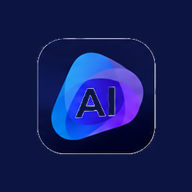
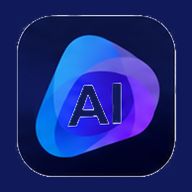
fix grafica e animazioni

diff --git a/relaition-mvp/css/components.css b/relaition-mvp/css/components.css
@@ -31,7 +31,7 @@
 .tab.active{color:var(--ac);border-bottom-color:var(--ac)}
 
 /* ─── MODAL ─── */
-.modal-overlay{position:fixed;inset:0;background:rgba(15,23,42,.5);backdrop-filter:blur(4px);z-index:200;display:none;place-items:center}
+.modal-overlay{position:fixed;inset:0;background:rgba(15,23,42,.58);z-index:200;display:none;place-items:center}
 .modal-overlay.show{display:grid}
 .modal{background:var(--card);border-radius:var(--rxl);box-shadow:var(--sh-xl);width:90%;max-width:680px;max-height:85vh;overflow-y:auto;padding:28px}
 .modal-lg{max-width:820px}
@@ -58,11 +58,13 @@
 
 /* ═══ VISUAL POLISH v8 ═══ */
 @keyframes pageIn{from{opacity:0;transform:translateY(4px)}to{opacity:1;transform:none}}
-.page.active{animation:pageIn .22s cubic-bezier(.4,0,.2,1)}
-@keyframes gradShift{0%,100%{background-position:0% 50%}50%{background-position:100% 50%}}
-.mkt-hero,.learn-hero{background-size:200% 200%;animation:gradShift 12s ease infinite}
-.logo-mark{animation:logoPulse 4s ease-in-out infinite}
-@keyframes logoPulse{0%,100%{filter:drop-shadow(0 4px 10px rgba(79,70,229,.45))}50%{filter:drop-shadow(0 4px 22px rgba(124,58,237,.8))}}
+.page.active{animation:pageIn .15s cubic-bezier(.2,0,0,1)}
+/* Il gradiente delle intestazioni non scorre piu': un'area grande ridisegnata a
+   ogni fotogramma per dodici secondi, e poi da capo, pesa su tutta la pagina. */
+/* Il marchio nel menu non pulsa piu': un filtro drop-shadow animato all'infinito
+   costringe il browser a ridisegnare ogni fotogramma, sempre, su ogni pagina,
+   ed e' la prima causa delle finestre che si aprivano a scatti. */
+@keyframes logoPulse{0%,100%{opacity:1}50%{opacity:.72}}
 .ni.active{position:relative;overflow:hidden}
 .ni.active::after{content:'';position:absolute;left:0;top:0;bottom:0;width:3px;background:linear-gradient(180deg,#2563EB,#7C3AED);border-radius:0 3px 3px 0}
 .agent-card{position:relative}
@@ -80,8 +82,11 @@
 .palette-tabs{flex-wrap:wrap}
 .palette-tab{font-size:10px;padding:7px 2px;min-width:44px}
 .badge{transition:var(--trans)}
-.modal{animation:modalIn .25s cubic-bezier(.34,1.4,.64,1)}
-@keyframes modalIn{from{opacity:0;transform:scale(.95) translateY(10px)}to{opacity:1;transform:none}}
+/* Apertura delle finestre: 160 ms senza rimbalzo. La curva con sovraelongazione
+   (1,4) faceva «assestare» la finestra dopo l'arrivo, e quel mezzo secondo di
+   assestamento si leggeva come lentezza. */
+.modal{animation:modalIn .16s cubic-bezier(.2,0,0,1)}
+@keyframes modalIn{from{opacity:0;transform:scale(.97) translateY(6px)}to{opacity:1;transform:none}}
 .leaderboard-row,.notif-item,.lesson-item{cursor:pointer}
 .leaderboard-row:hover{background:var(--bg2);border-radius:8px}
 .quiz-option{position:relative}
@@ -109,7 +114,7 @@
 
 #loginScreen,#bootOverlay{animation:fullscreenIn .35s cubic-bezier(.4,0,.2,1)}
 @keyframes fullscreenIn{from{opacity:0}to{opacity:1}}
-#loginScreen>div{animation:modalIn .4s cubic-bezier(.34,1.4,.64,1)}
+#loginScreen>div{animation:modalIn .25s cubic-bezier(.2,0,0,1)}
 #loginScreen input{transition:var(--trans)}
 #loginScreen input:focus{outline:none;border-color:#2563EB!important;box-shadow:0 0 0 3px rgba(37,99,235,.18)}
 #loginScreen button{transition:var(--trans)}

diff --git a/relaition-mvp/css/base.css b/relaition-mvp/css/base.css
@@ -22,7 +22,7 @@
   --sh-lg:0 10px 15px -3px rgba(0,0,0,.08),0 4px 6px -4px rgba(0,0,0,.04);
   --sh-xl:0 20px 25px -5px rgba(0,0,0,.1),0 8px 10px -6px rgba(0,0,0,.06);
   --glass:rgba(255,255,255,.7);--glass-b:blur(12px);
-  --trans:all .2s cubic-bezier(.4,0,.2,1);
+  --trans:all .14s cubic-bezier(.2,0,0,1);
 }
 html,body{height:100%;font-family:'Inter',system-ui,-apple-system,sans-serif;color:var(--tx);background:var(--bg);overflow:hidden;-webkit-font-smoothing:antialiased}
 .app{display:flex;height:100vh}
@@ -315,7 +315,7 @@ html[data-theme="dark"] [style*="color:#0F172A" i],
 html[data-theme="dark"] [style*="color:#1E293B" i],
 html[data-theme="dark"] [style*="color:#334155" i]{color:var(--tx)!important}
 /* Logo intero (file ufficiale): largo quanto il contenitore, mai piu' di 320px */
-.logo-intero{display:block;width:100%;max-width:320px;height:auto}
+.logo-intero{display:block;width:100%;max-width:320px;height:auto;margin-left:auto;margin-right:auto;image-rendering:auto}
 .logo-mark img{width:32px;height:auto;display:block}
 .sidebar.compatta .logo-mark img{width:36px}
 /* classi con tinta pastello scritta nel foglio di stile */
@@ -336,3 +336,6 @@ html[data-theme="dark"] .badge-b{color:#C4B5FD}
 html[data-theme="dark"] .badge-g{color:#6EE7B7}
 html[data-theme="dark"] .badge-y{color:#FCD34D}
 html[data-theme="dark"] .badge-p{background:#2E1F5E;color:#C4B5FD}
+/* Versione in esecuzione, in fondo al menu: piccola, letta dal service worker */
+.versione-app{font-size:9px;color:rgba(148,163,184,.45);text-align:right;padding:4px 6px 0;letter-spacing:.04em;min-height:12px}
+.sidebar.compatta .versione-app{display:none}

diff --git a/relaition-mvp/index.html b/relaition-mvp/index.html
@@ -20,10 +20,10 @@
 </head>
 <body>
 <div id="loginScreen" style="position:fixed;inset:0;background:linear-gradient(160deg,#0F172A 0%,#1E293B 100%);display:flex;align-items:center;justify-content:center;z-index:10000;font-family:Inter,sans-serif;padding:20px">
-  <div style="width:100%;max-width:380px;background:rgba(255,255,255,.03);border:1px solid rgba(255,255,255,.08);border-radius:20px;padding:36px 32px;backdrop-filter:blur(12px)">
+  <div style="width:100%;max-width:380px;background:rgba(255,255,255,.03);border:1px solid rgba(255,255,255,.08);border-radius:20px;padding:36px 32px">
     <!-- Logo ufficiale per sfondo scuro (brand/logo-dark.png), con il claim
          Learn / Build / Share / Grow gia' dentro. -->
-    <img src="brand/logo-dark.png" alt="RelAItion. Learn, Build, Share, Grow" class="logo-intero" style="margin:-6px 0 18px">
+    <img src="brand/logo-dark.png" alt="RelAItion. Learn, Build, Share, Grow" class="logo-intero" style="margin:0 auto 22px;width:280px">
     <div style="color:#F1F5F9;font-size:16px;font-weight:700;margin-bottom:4px">Bentornato</div>
     <div style="color:#94A3B8;font-size:12px;margin-bottom:22px">Accedi per continuare sulla piattaforma</div>
     <form id="loginForm" onsubmit="return doLogin(event)">
@@ -94,6 +94,7 @@
           <line x1="21" y1="12" x2="9" y2="12"></line>
         </svg>Esci</span>
     </div>
+    <div id="versioneApp" class="versione-app"></div>
   </div>
 </aside>
 

diff --git a/relaition-mvp/js/tema.js b/relaition-mvp/js/tema.js
@@ -31,3 +31,22 @@ function alternaTema(){
 // All'avvio si allinea solo l'icona: l'attributo e' gia' stato messo dallo
 // script in testa alla pagina, prima del primo disegno.
 document.addEventListener('DOMContentLoaded',function(){ applicaTema(temaCorrente()) });
+
+// ── Versione in esecuzione ─────────────────────────────────────
+// Un numero piccolo in fondo al menu, preso dal service worker che sta
+// servendo la pagina: non da un'etichetta scritta a mano, che resta indietro.
+// Se non c'e' un service worker (apertura da file) non si mostra niente.
+function mostraVersione(){
+  var el=document.getElementById('versioneApp'); if(!el)return;
+  if(!('serviceWorker' in navigator))return;
+  navigator.serviceWorker.addEventListener('message',function(e){
+    if(e.data&&e.data.tipo==='versione'&&e.data.cache){
+      el.textContent=String(e.data.cache).replace('relaition-','');
+      el.title='Versione della cache in esecuzione';
+    }
+  });
+  navigator.serviceWorker.ready.then(function(r){
+    if(r.active)r.active.postMessage({tipo:'versione'});
+  }).catch(function(){});
+}
+document.addEventListener('DOMContentLoaded',mostraVersione);

diff --git a/relaition-mvp/sw.js b/relaition-mvp/sw.js
@@ -4,7 +4,7 @@
 // che l'app si apra anche senza connessione — il che è coerente con il fatto
 // che i dati vivono nel browser e non su un server.
 
-var CACHE = 'relaition-v96';
+var CACHE = 'relaition-v98';
 // L'elenco e' generato dai <script> e <link> di index.html: quando era
 // scritto a mano restava indietro a ogni modulo aggiunto, e nell'app
 // installata i moduli mancanti non avevano copia di riserva — bastava una
@@ -126,4 +126,13 @@ self.addEventListener('fetch', function(e){
       });
     })
   );
+});
+
+// La pagina puo' chiedere quale versione della cache sta servendo. Serve a
+// capire, durante una segnalazione, se il browser sta ancora usando una
+// versione vecchia: e' il numero che compare in fondo al menu.
+self.addEventListener('message', function(e){
+  if(e.data && e.data.tipo==='versione' && e.source){
+    e.source.postMessage({ tipo:'versione', cache:CACHE });
+  }
 });

diff --git a/relaition-mvp/ARCHITECTURE.md b/relaition-mvp/ARCHITECTURE.md
@@ -3978,3 +3978,57 @@ l'**esecuzione**: eseguire nella sandbox scriveva nello storico, e da lì nel
 Monitoraggio. `recordExecution()` ora non scrive con la sandbox attiva; il
 registro dentro il Builder resta, perché è ciò che chi impara sta guardando.
 Cache `relaition-v96`.
+
+### 5.151 Icona piccola, logo sfocato, animazioni a scatti
+
+Tre segnalazioni dopo l'arrivo degli asset ufficiali, tutte vere.
+
+**L'icona installata era più piccola delle altre.** L'app icon ufficiale ha un
+margine trasparente attorno al quadrato arrotondato: 164 pixel di contenuto su
+210. Windows e Android riscalano il file intero, margine compreso, quindi
+l'icona usciva al 78%. `brand/prepara-icone.ps1` ora ritaglia al contenuto e
+da lì produce le due forme del manifest (`any` a tutto campo, `maskable` con
+l'8% di margine sul blu dell'icona). L'icona già installata resta quella
+vecchia finché non si disinstalla e reinstalla: i sistemi la congelano
+all'installazione.
+
+**Il logo di accesso sembrava sfocato e fuori centro.** Due cause. Attorno
+alle lettere il logo chiaro ha un alone grigio semitrasparente (antialiasing
+verso il bianco) che, reso bianco per il fondo scuro, si vedeva come una
+sfumatura sporca: sotto una certa opacità ora si azzera. E il file portava con
+sé un margine trasparente asimmetrico, per cui «centrato» non lo era: si
+ritaglia al contenuto (907×303) e si centra con i margini automatici. Tolto
+anche il `backdrop-filter` della scheda di accesso, invisibile su un gradiente
+piatto e costoso.
+
+**Le finestre si aprivano a scatti.** Non era JavaScript (aprire una finestra
+costa 0,1 ms): erano tre cose che il browser ridisegnava di continuo. Il
+marchio nel menu pulsava con un `filter: drop-shadow` animato all'infinito, su
+ogni pagina, sempre; le intestazioni di Marketplace e Learning Hub facevano
+scorrere un gradiente a tutta larghezza per dodici secondi e poi da capo; e la
+finestra modale sfocava tutto lo sfondo con `backdrop-filter: blur`, cioè
+rifiltrava l'intera pagina a ogni apertura. Tolte tutte e tre: la pulsazione
+resta solo sulla schermata di avvio, che dura un secondo, e come opacità; il
+gradiente è fermo; la modale scurisce lo sfondo senza sfocarlo. Verifica:
+`document.getAnimations()` a regime non contiene più animazioni infinite
+(prima due). Cache `relaition-v97`.
+
+### 5.152 «Le finestre si aprono lente»: cosa era e cosa no
+
+Segnalazione dopo il §5.151. Misure prima di toccare: il ricalcolo degli stili
+con i selettori `[style*=…]` del tema scuro costa 0,02 ms su 1 125 elementi
+(sospettati, scagionati); aprire una finestra costa 0,1 ms di JavaScript;
+nessuna animazione infinita a regime. Restavano due cose, entrambe di
+percezione più che di carico:
+
+- la curva di apertura delle finestre aveva una sovraelongazione (1,4): la
+  finestra arrivava e poi «si assestava», e quel rimbalzo di un quarto di
+  secondo si legge come lentezza. Ora 160 ms, curva senza rimbalzo;
+- le transizioni generiche (`--trans`) erano di 200 ms: portate a 140, e il
+  cambio pagina da 220 a 150.
+
+E una cosa che non si poteva sapere: se il browser stesse ancora servendo una
+versione precedente. Il numero della cache in esecuzione ora compare in fondo
+al menu, chiesto al service worker che sta servendo la pagina (non
+un'etichetta scritta a mano, che resta indietro): se la segnalazione dice
+«v96», la causa è già nota. Cache `relaition-v98`.

diff --git a/relaition-mvp/docs/prompt_claude_allineamento_documento_v44.md b/relaition-mvp/docs/prompt_claude_allineamento_documento_v44.md
@@ -2,7 +2,7 @@
 
 Da usare in una **conversazione Claude** allegando:
 
-1. `relaition-mvp aggiornata 20260912.zip`
+1. `relaition-mvp aggiornata 20260913.zip`
 2. il master document della tesi (capitoli, appendice, bibliografia)
 
 Questo prompt è **incrementale**: presuppone che il documento sia già stato
@@ -20,8 +20,8 @@ documento in cui intervenire. Il tuo compito non è rileggere tutto: è
 applicare queste modifiche, verificare nel codice che siano vere, e dirmi se
 toccano altro.
 
-Fonti nello zip: `ARCHITECTURE.md` dalla sezione **§5.145 alla §5.150** (le
-ultime sei), `NOTE-DI-RILASCIO.md` (blocco «Versione del 12 settembre 2026»),
+Fonti nello zip: `ARCHITECTURE.md` dalla sezione **§5.145 alla §5.151** (le
+ultime sette), `NOTE-DI-RILASCIO.md` (blocco «Versione del 12 settembre 2026»),
 `brand/LEGGIMI.md`, `demo/LEGGIMI.md`. Il codice vince sempre sulla
 documentazione: se trovi una discordanza, segnalamela.
 
@@ -108,7 +108,7 @@ capitolo. Se il punto non esiste nel documento, dimmi dove andrebbe aggiunto.
 
 ### Cosa mi devi restituire
 
-- Per ognuno degli 11 punti: **trovato / non trovato** nel documento, punto
+- Per ognuno dei 13 punti: **trovato / non trovato** nel documento, punto
   esatto (titolo di sezione o frase da cercare), azione (sostituisci /
   integra / togli), **testo nuovo pronto**.
 - L'elenco degli **screenshot da rifare**, con la schermata, lo stato in cui
@@ -126,3 +126,19 @@ Non inventare funzionalità: se un punto non trova riscontro nel codice, dillo.
 Non riscrivere capitoli: interventi puntuali. Se il documento è ancora fermo a
 prima di settembre, fermati e dimmelo: serve prima il prompt completo (v43).
 Scrivi in italiano, nel registro del documento.
+
+### Aggiunte del 13 settembre (stesso prompt, due punti in più)
+
+12. **Prestazioni.** Sono state tolte le animazioni continue (marchio pulsante,
+    gradienti in movimento) e la sfocatura dello sfondo dietro le finestre
+    modali: se il documento descrive «micro-animazioni» o «effetti di sfondo»
+    come parte del design system, va ridimensionato a: transizioni brevi
+    (0,2-0,3 s) solo al cambio di stato, nessun effetto permanente. → *Dove*:
+    capitolo 3, design system / accessibilità (`prefers-reduced-motion` è
+    rispettato).
+
+13. **Icona e logo.** L'icona installabile è a misura piena (asset ufficiale
+    ritagliato al contenuto); il logo di accesso è quello ufficiale, senza
+    alone e centrato. Nessun testo da cambiare oltre al punto 1, ma gli
+    screenshot di accesso e dell'app installata vanno fatti **dopo** aver
+    disinstallato e reinstallato l'app, altrimenti mostrano l'icona vecchia.

diff --git a/relaition-mvp/NOTE-DI-RILASCIO.md b/relaition-mvp/NOTE-DI-RILASCIO.md
@@ -30,6 +30,12 @@ Un rilascio di chiusura: ciò che restava dai test, più le pulizie prima della 
 - **Tema scuro.** Interruttore nella barra in alto (☾/☀); la scelta resta nel
   browser. Predefinito chiaro. Finestre di verifica, avvisi, badge e quiz
   leggibili anche al buio.
+- **Versione in fondo al menu**, letta dal service worker in esecuzione: dice
+  quale build sta girando davvero.
+- **Più fluida.** Tolte le animazioni che giravano sempre (marchio pulsante,
+  gradienti in movimento) e la sfocatura dello sfondo dietro le finestre:
+  finestre e transizioni non scattano più.
+- **Icona installabile a misura piena** e logo di accesso nitido e centrato.
 - **Sandbox senza tracce.** Eseguire nella sandbox non scrive più nello storico
   delle esecuzioni né nel Monitoraggio.
 
